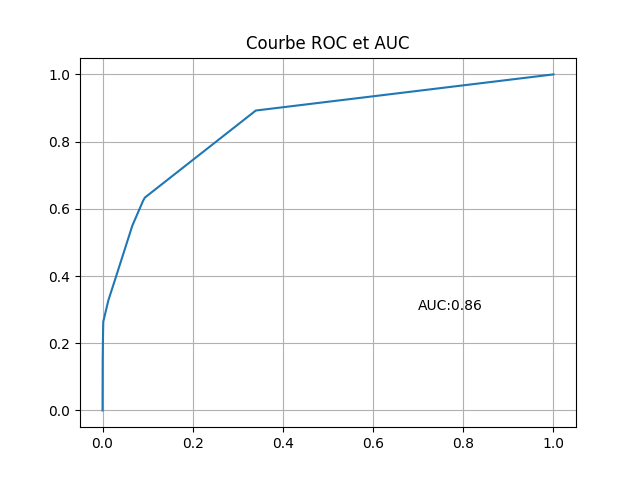
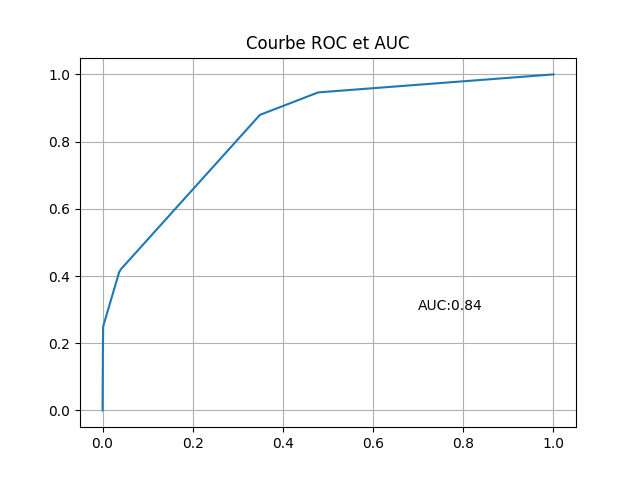
Dev fonction tracking params Arbre de Decision

diff --git a/models.py b/models.py
@@ -5,12 +5,14 @@ from sklearn import tree
 from sklearn.metrics import confusion_matrix, classification_report, auc, roc_curve, matthews_corrcoef
 import argparse
 import numpy as np
+from datetime import datetime
 import matplotlib.pyplot as plt
 
 
 parser = argparse.ArgumentParser()
 parser.add_argument('filename')
 args = parser.parse_args()
+
 
 def Create_Train_Test(df):
     """
@@ -25,7 +27,7 @@ def Create_Train_Test(df):
 
 def Drop_References_Variables(X_train, X_test, vars):
     """
-    
+    Drop les variables de référence pour le modèle Logit
     """
     refs_vars = X_train[vars].copy()
     X_train.drop(vars, axis=1, inplace=True)
@@ -45,14 +47,14 @@ def DecisionTree(X_train, y_train):
     """
     Créer l'arbre de décision grâce aux datasets d'entraînement
     """
-    model = tree.DecisionTreeClassifier(max_leaf_nodes=10,
-                                        min_samples_leaf=10,
-                                        min_samples_split=30).fit(X_train, y_train)
+    #print(Tracking_Dataframe(params, False))
+    model = tree.DecisionTreeClassifier(max_depth=4).fit(X_train, y_train)
     return model
 
 def Evaluation(model, X_test, y_test, isLogit):
     """
     Affiche les résultats du modèle avec les datasets de test
+    Différenciation entre Logit et arbre de décision
     """
     file = args.filename.split('.')[0].split('/')[-1]
     predict_Y = model.predict(X_test)
@@ -68,8 +70,10 @@ def Evaluation(model, X_test, y_test, isLogit):
                                       'Importance':model.feature_importances_}).sort_values(by='Importance',
                                                                                             ascending=False, ignore_index=True)
         print(df_importance.loc[df_importance['Importance']!=0])
-        tree.plot_tree(model, feature_names= list(X_test.columns) , filled=True)
-        plt.savefig(f'images/Tree_{file}.pdf')
+        #tree.plot_tree(model, feature_names= list(X_test.columns) , filled=True)
+        #plt.savefig(f'images/Tree_{file}.pdf')
+
+    print('Matrice de confusion:\n', confusion_matrix(y_test, predict_Y))
     Accuracy = model.score(X_test,y_test)
     class_report = classification_report(y_test, predict_Y, output_dict=True)
     class_report = pd.DataFrame(class_report)
@@ -77,14 +81,15 @@ def Evaluation(model, X_test, y_test, isLogit):
     MCC = matthews_corrcoef(y_test, predict_Y)
     AUC = ROC(model, X_test, y_test, isLogit)
 
-    df_metrics = pd.DataFrame({'Valeur':[AUC, f1_score, Accuracy, MCC],
-                               'Cible':[0.8, 0.75, 0.85, 0.75]},
-                               index = ['AUC', 'F1-Score', 'Accuracy', 'MCC'])
+    df_metrics = pd.DataFrame({'Valeur':[AUC, f1_score, Accuracy, MCC, None],
+                               'Cible':[0.8, 0.75, 0.85, 0.75, None]},
+                               index = ['AUC', 'F1-Score', 'Accuracy', 'MCC', 'gAUC'])
     return df_metrics
 
 
 def ROC(model, X_test, y_test, isLogit):
     """
+    Charge la courbe roc du modèle et retourne l'AUC
     """
     if isLogit:
         file = args.filename.split('.')[0].split('/')[-1]+'_Logit'
@@ -107,7 +112,7 @@ def ROC(model, X_test, y_test, isLogit):
 
 def Scoring(df_metrics, isLogit):
     """
-    
+    Calcul le score du modèle en fonction des métriques de df_metrics
     """
     if isLogit:
         model = 'Logit'
@@ -118,9 +123,28 @@ def Scoring(df_metrics, isLogit):
     print(df_metrics)
     score = df_metrics.apply(lambda row : 1 if row['Valeur'] > row['Cible'] else 0, axis=1).sum()
     print(f'Score du {model}:', score)
+    return df_metrics, score
+
+def Tracking_Dataframe(params, df_metrics_tree, score, isLogit):
+    """
+    """
+    now = datetime.now()
+    if not isLogit:
+        df_tracking = pd.DataFrame([{'Date':now.strftime("%d/%m/%Y %H:%M:%S"), 'Score':score}])
+        df_tracking[df_metrics_tree.index] = df_metrics_tree['Valeur'].T
+        df_tracking_columns = df_tracking.columns
+        df_params = pd.DataFrame([params], columns=list(params.keys()))
+        df_tracking = pd.concat([df_tracking, df_params], axis=1)
+        new_index = df_tracking_columns.insert(1, df_params.columns)
+        df_tracking = df_tracking.reindex(columns=new_index)
+        df_tracking.index.name = "index"
+        df_tracking.to_csv('files/tracking_models_files/tracking_decision_tree.csv', mode='a', header=False)
+    return df_tracking
+
 
 def LOGIT(df):
     """
+    Réunion des fonctions nécessaires au fonctionnement du modèle LOGIT
     """
     X_train, X_test, y_train, y_test = Create_Train_Test(df)
     vars = ['native-country_United-States', 'workclass_Private', 'occupation_Prof-specialty', 
@@ -133,11 +157,16 @@ def LOGIT(df):
 
 def TREE(df):
     """
+    Réunion des fonctions nécessaires au fonctionnement du modèle Arbre de Décision
     """
     X_train, X_test, y_train, y_test = Create_Train_Test(df)
     model_decision_tree = DecisionTree(X_train, y_train)
     df_metrics_tree = Evaluation(model_decision_tree, X_test, y_test, False)
-    Scoring(df_metrics_tree, False)
+    df_metrics_tree, score = Scoring(df_metrics_tree, False)
+
+    df_tracking = Tracking_Dataframe(model_decision_tree.get_params(), df_metrics_tree, score, False)
+
+    
 
 def main():
 
